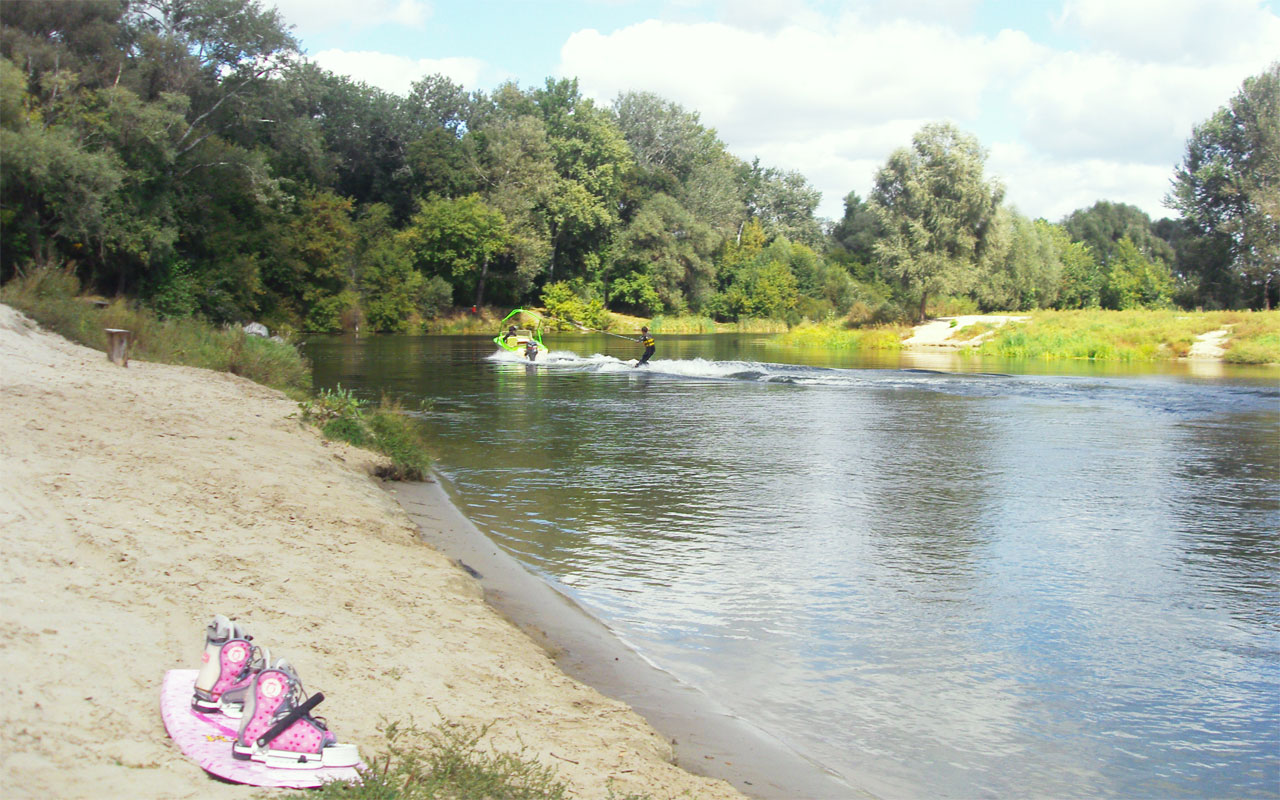
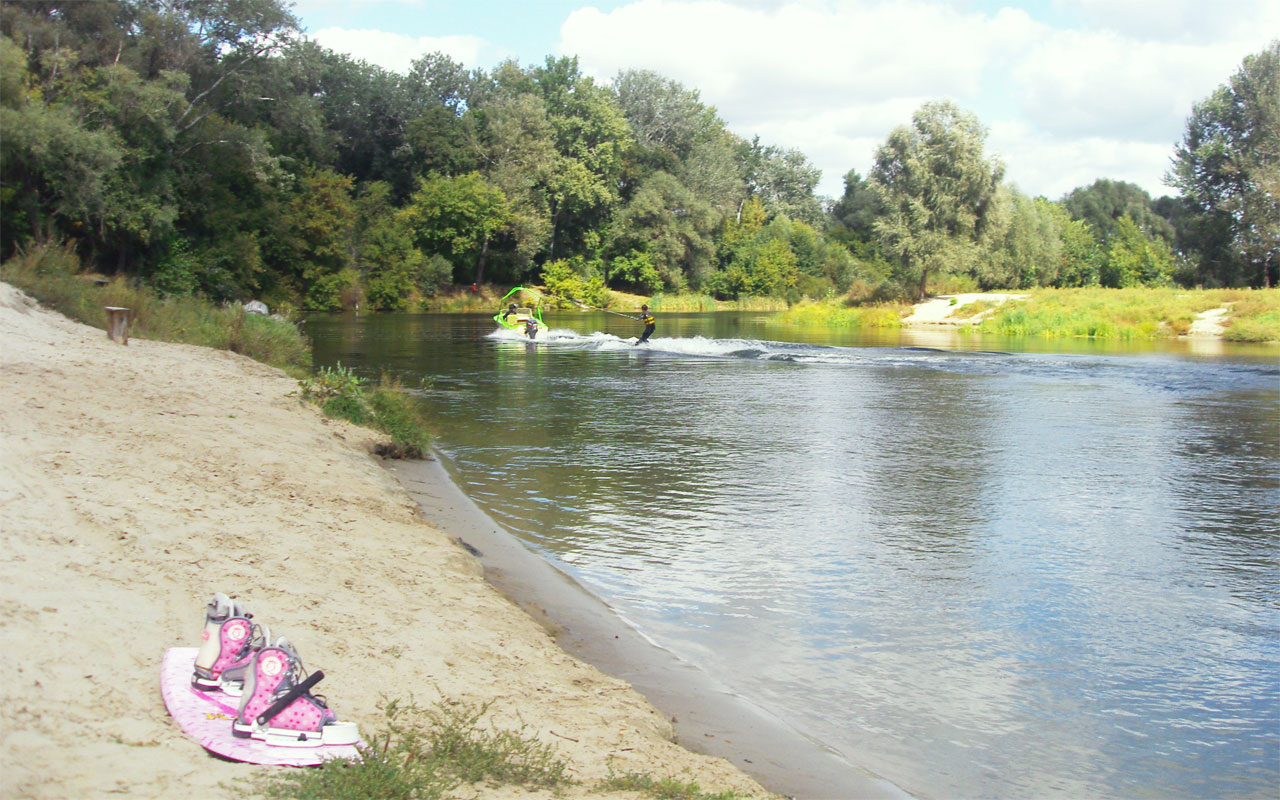
add section photos

diff --git a/www/resources/default/js/script.js b/www/resources/default/js/script.js
@@ -2252,7 +2252,8 @@ var Section = {
                                 GoTripXCHelpers.cssAnimation(sectionWrapper.find('.section-content:first'), { left: delta * Scaling.windowDimensions.width }, 1000, function() {
                                     sectionWrapper.find('.section-content:first').remove().end()
                                         .find('#scene-1 img').css({
-                                            left: 0 //Added to support playOutro after navigating sideways
+                                            //left: 0 //Added to support playOutro after navigating sideways
+                                            left: (Scaling.windowDimensions.width - 1280)/2
                                         });
                                     Section.initNav();
                                 }, 'slide-in-next-section');
